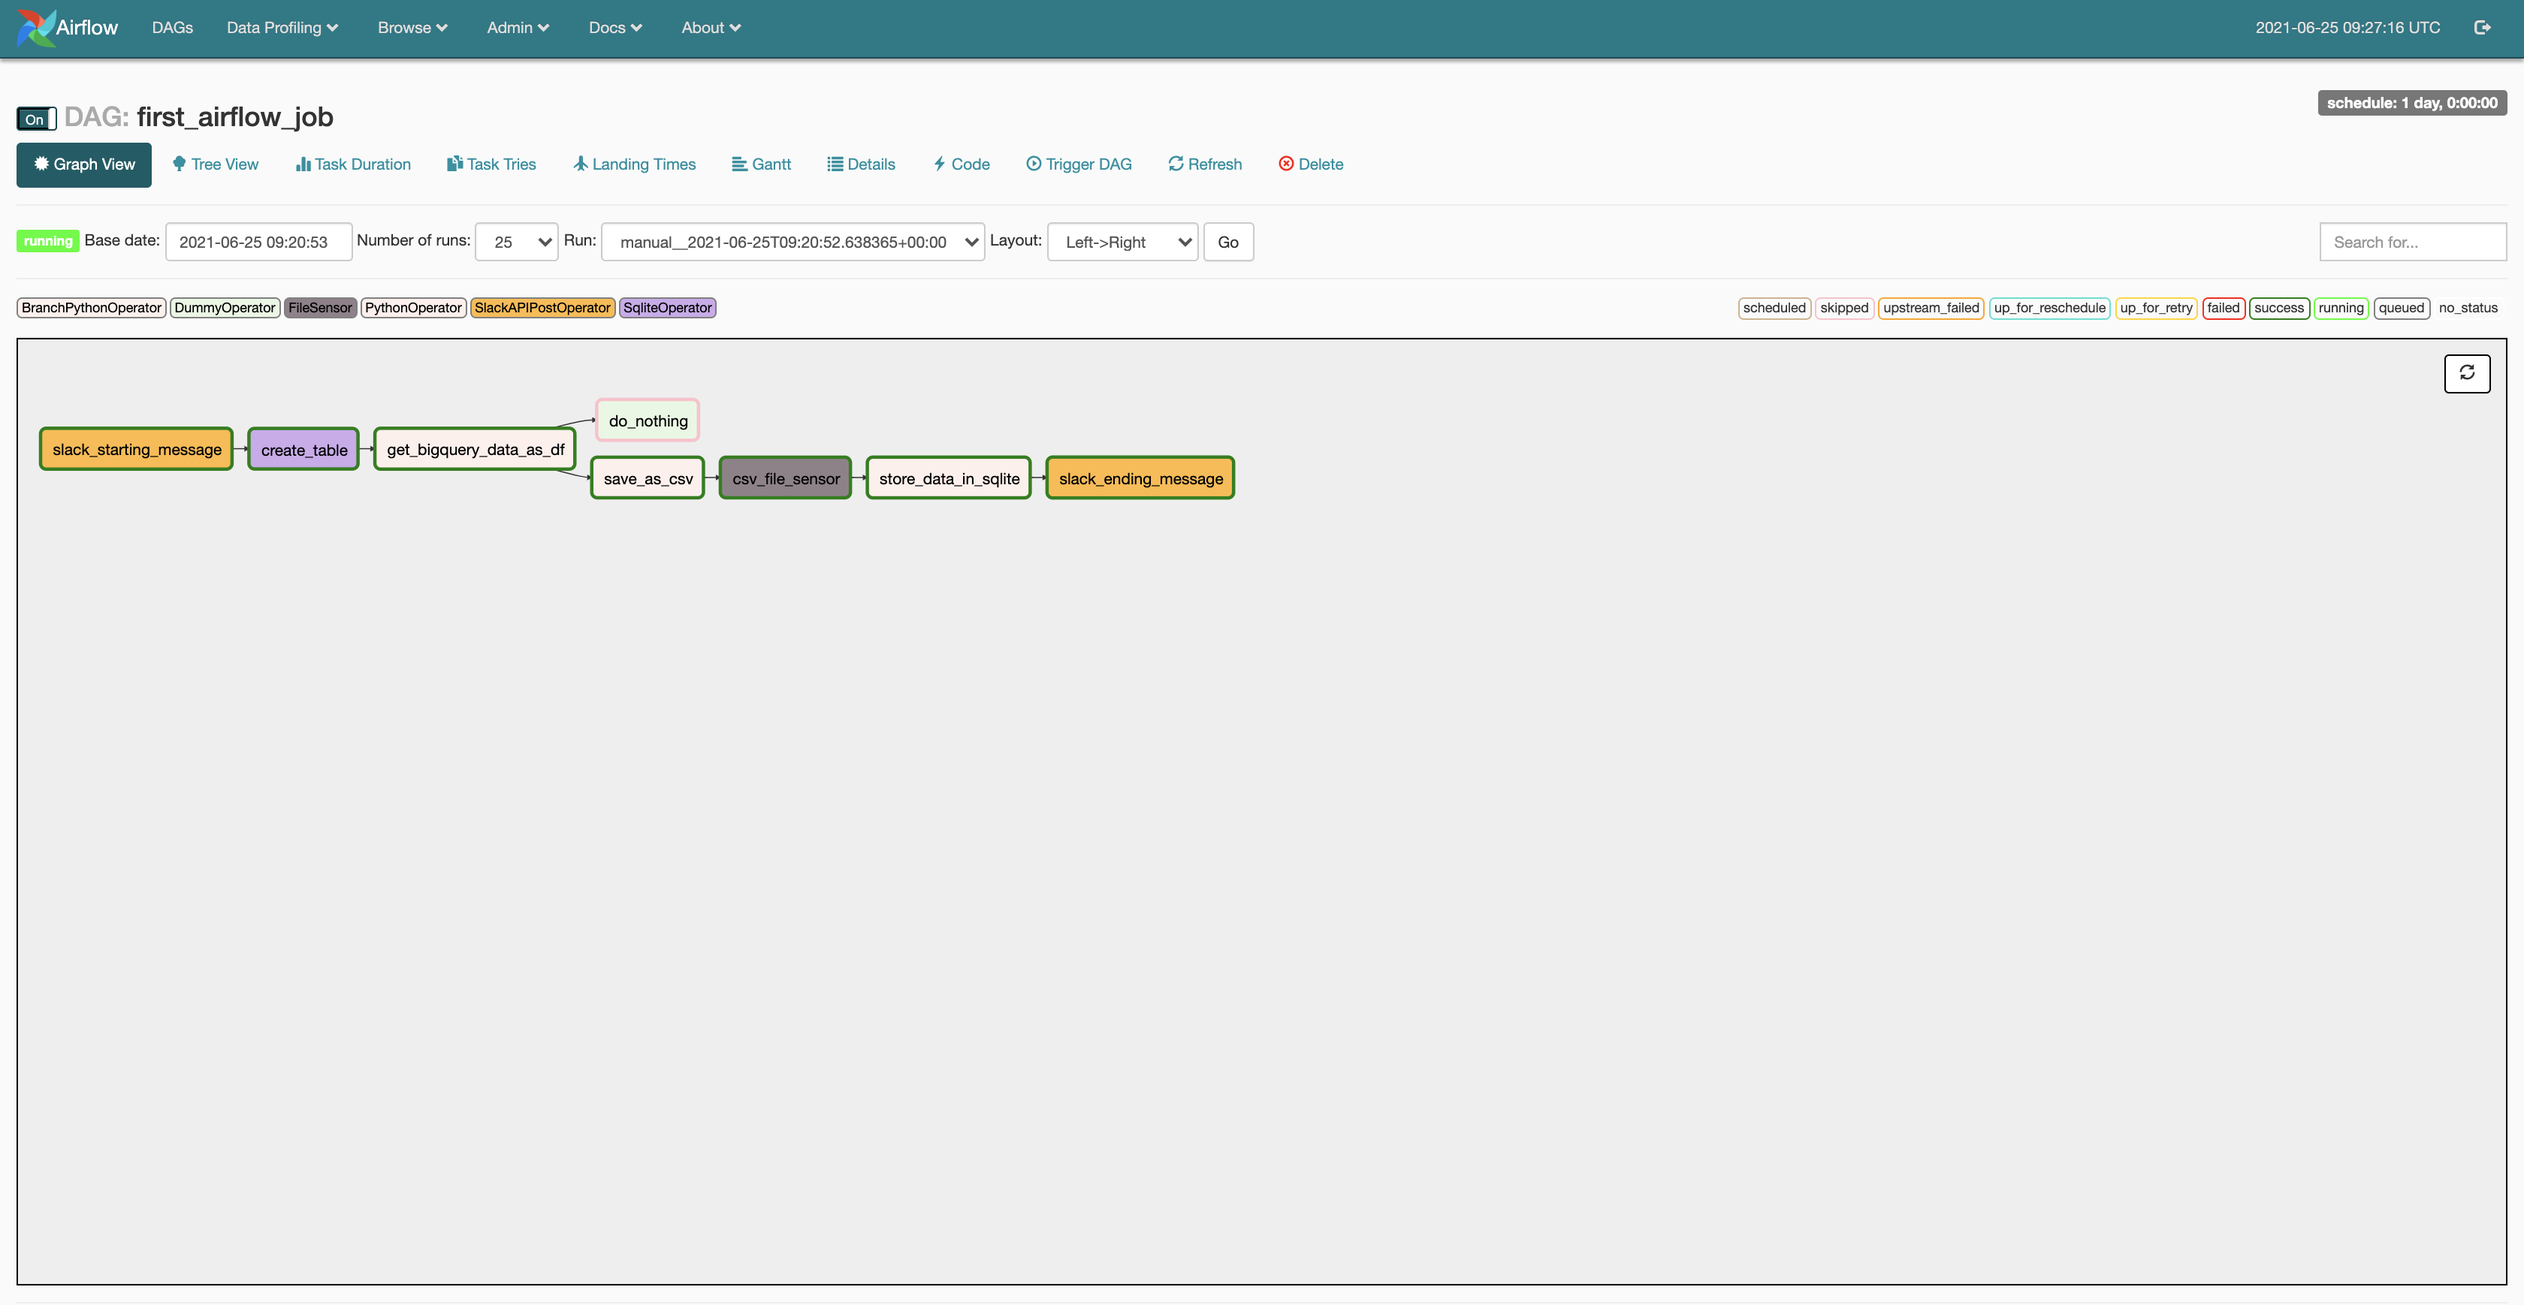
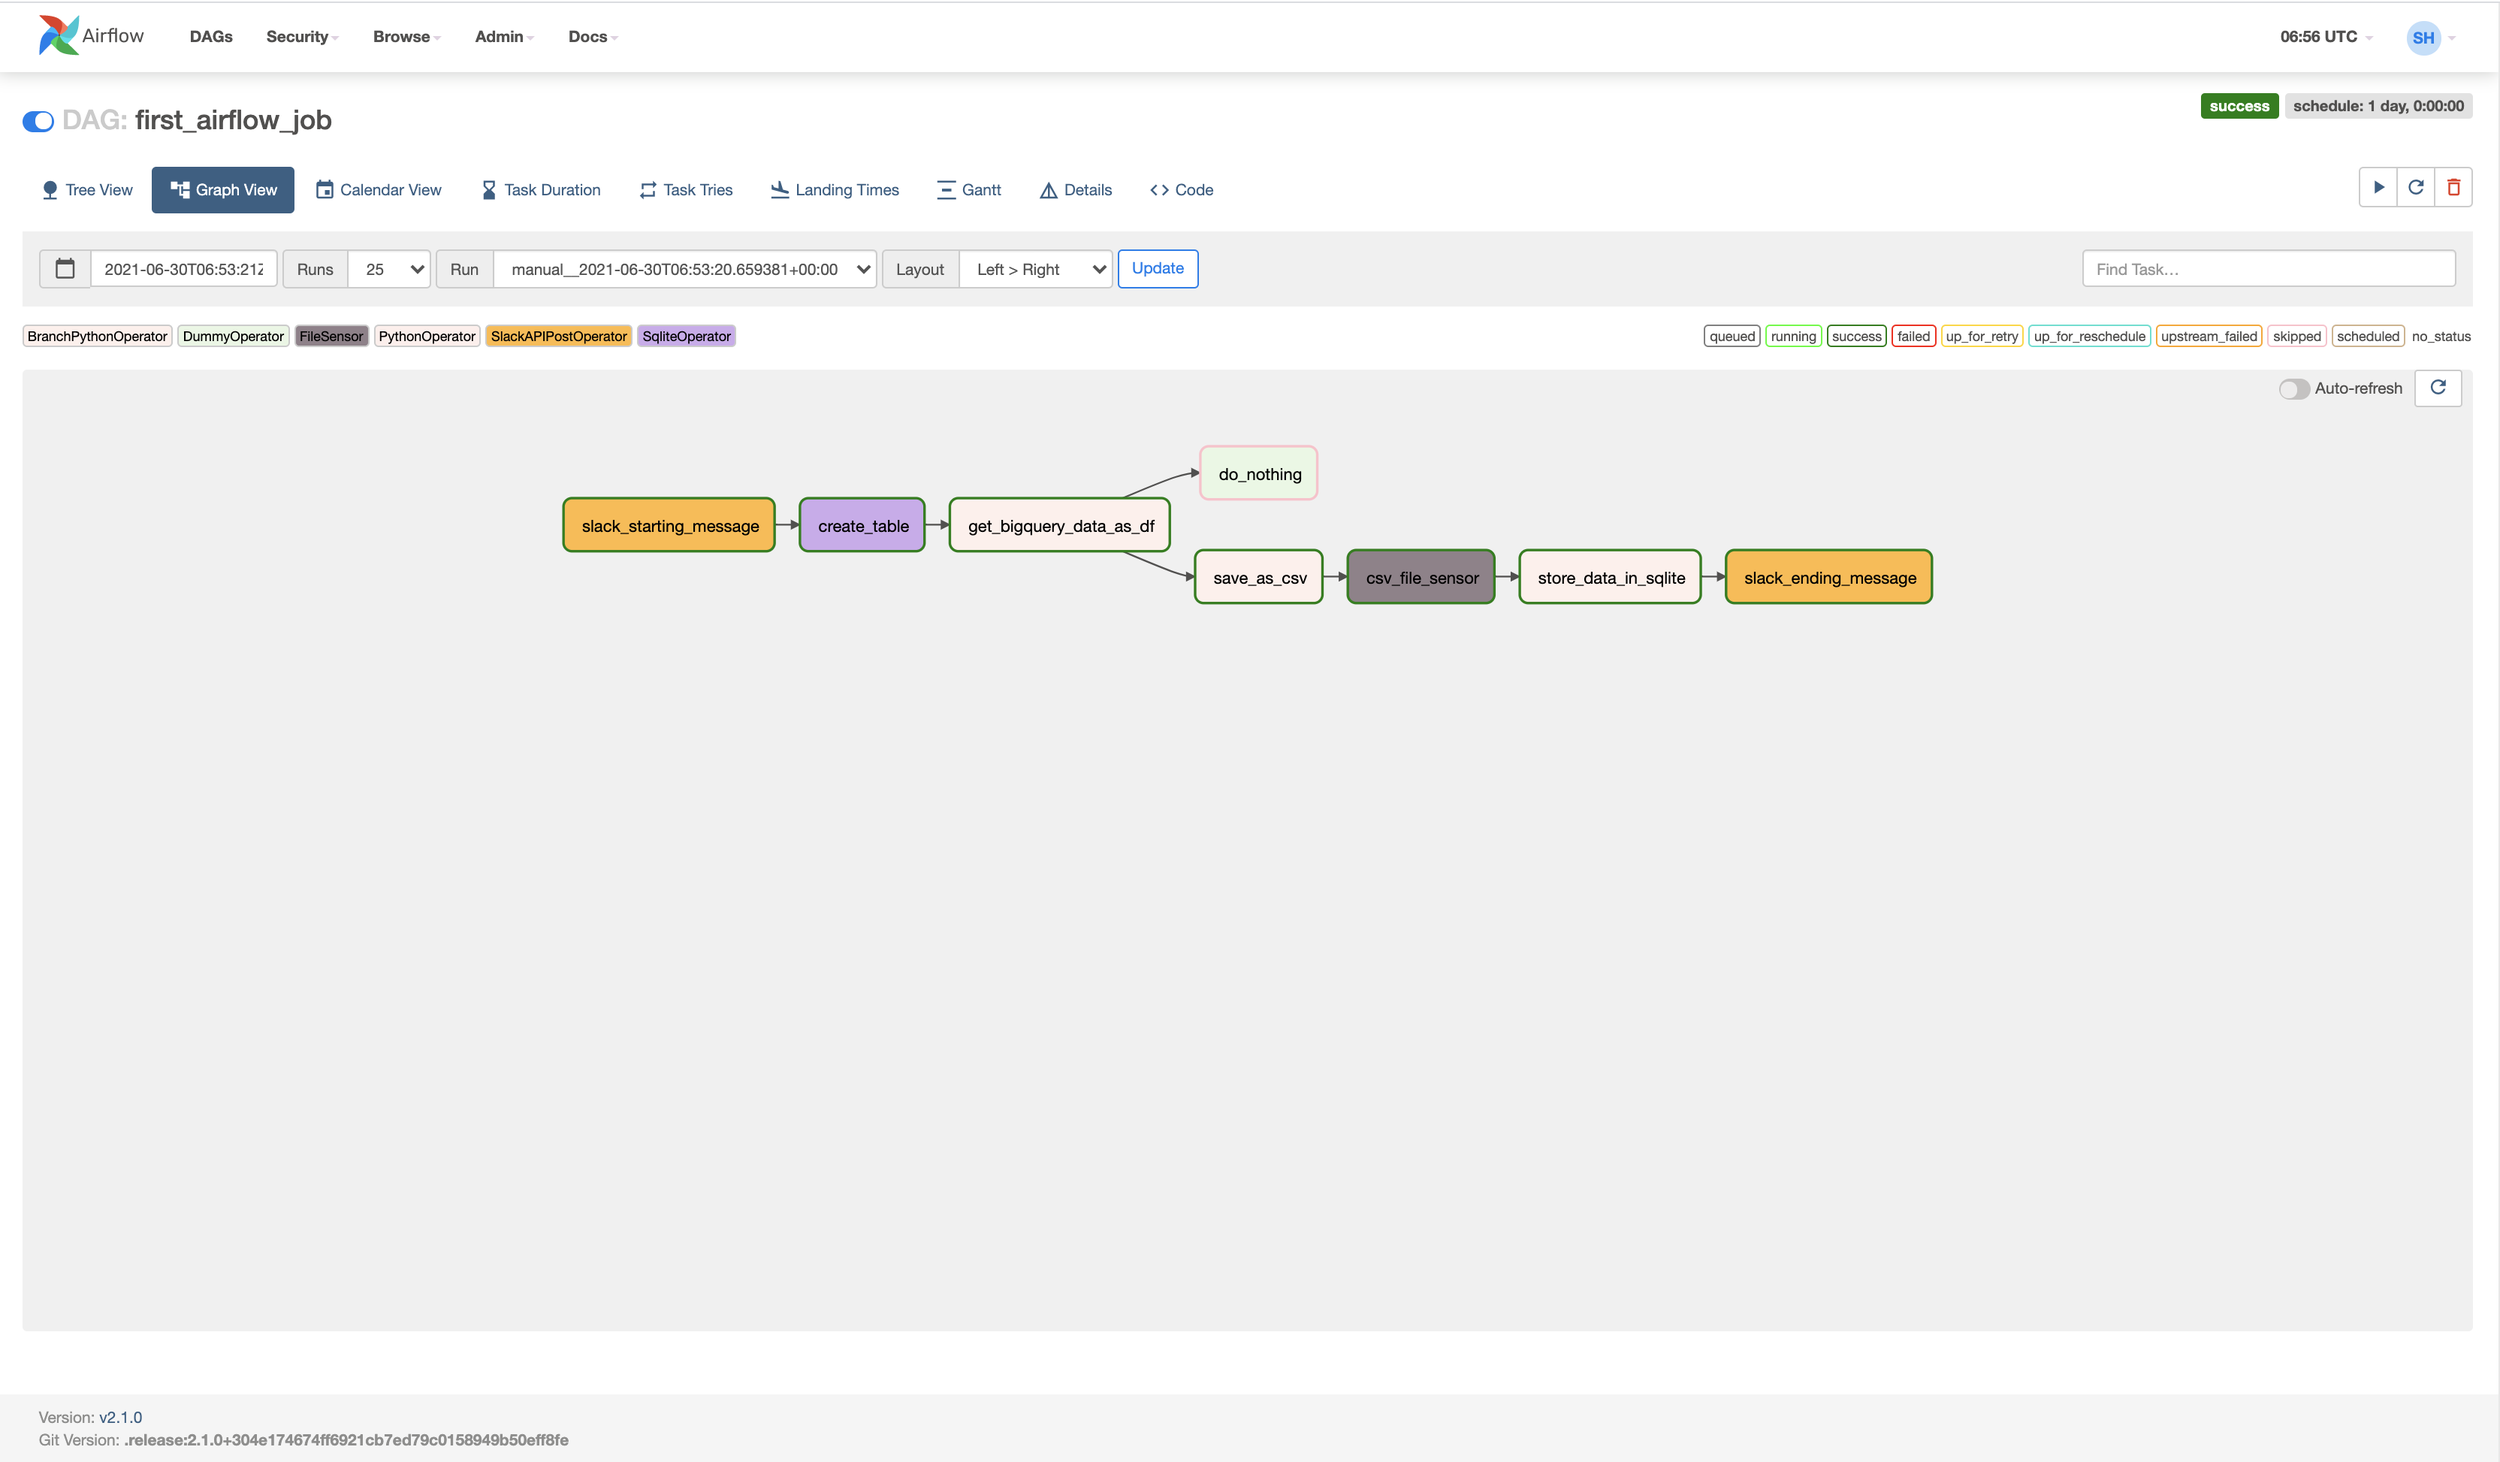
UPDATED at 2021.06.30

diff --git a/first_processing.py b/first_processing.py
@@ -6,12 +6,13 @@ import google.auth
 from datetime import datetime, timedelta
 from google.cloud import bigquery
 from airflow.models import DAG
-from airflow.operators.sqlite_operator import SqliteOperator
-from airflow.operators.python_operator import PythonOperator, BranchPythonOperator
-from airflow.operators.slack_operator import SlackAPIPostOperator
-from airflow.operators.dummy_operator import DummyOperator
-from airflow.contrib.sensors.file_sensor import FileSensor
-from airflow.operators.bash_operator import BashOperator
+from airflow.providers.sqlite.operators.sqlite import SqliteOperator
+from airflow.operators.bash import BashOperator
+from airflow.operators.python import PythonOperator, BranchPythonOperator
+from airflow.providers.slack.operators.slack import SlackAPIPostOperator
+from airflow.operators.dummy import DummyOperator
+from airflow.sensors.filesystem import FileSensor
+from datetime import datetime, timedelta
 
 dag_id = 'first_airflow_job'
 # default for whole DAG

diff --git a/README.md b/README.md
@@ -39,7 +39,7 @@
 ## requirements
 
 1.python 3.7
-2.apache-airflow 1.10.15
+2.apache-airflow==2.1.0
 
 
 ## cmd
